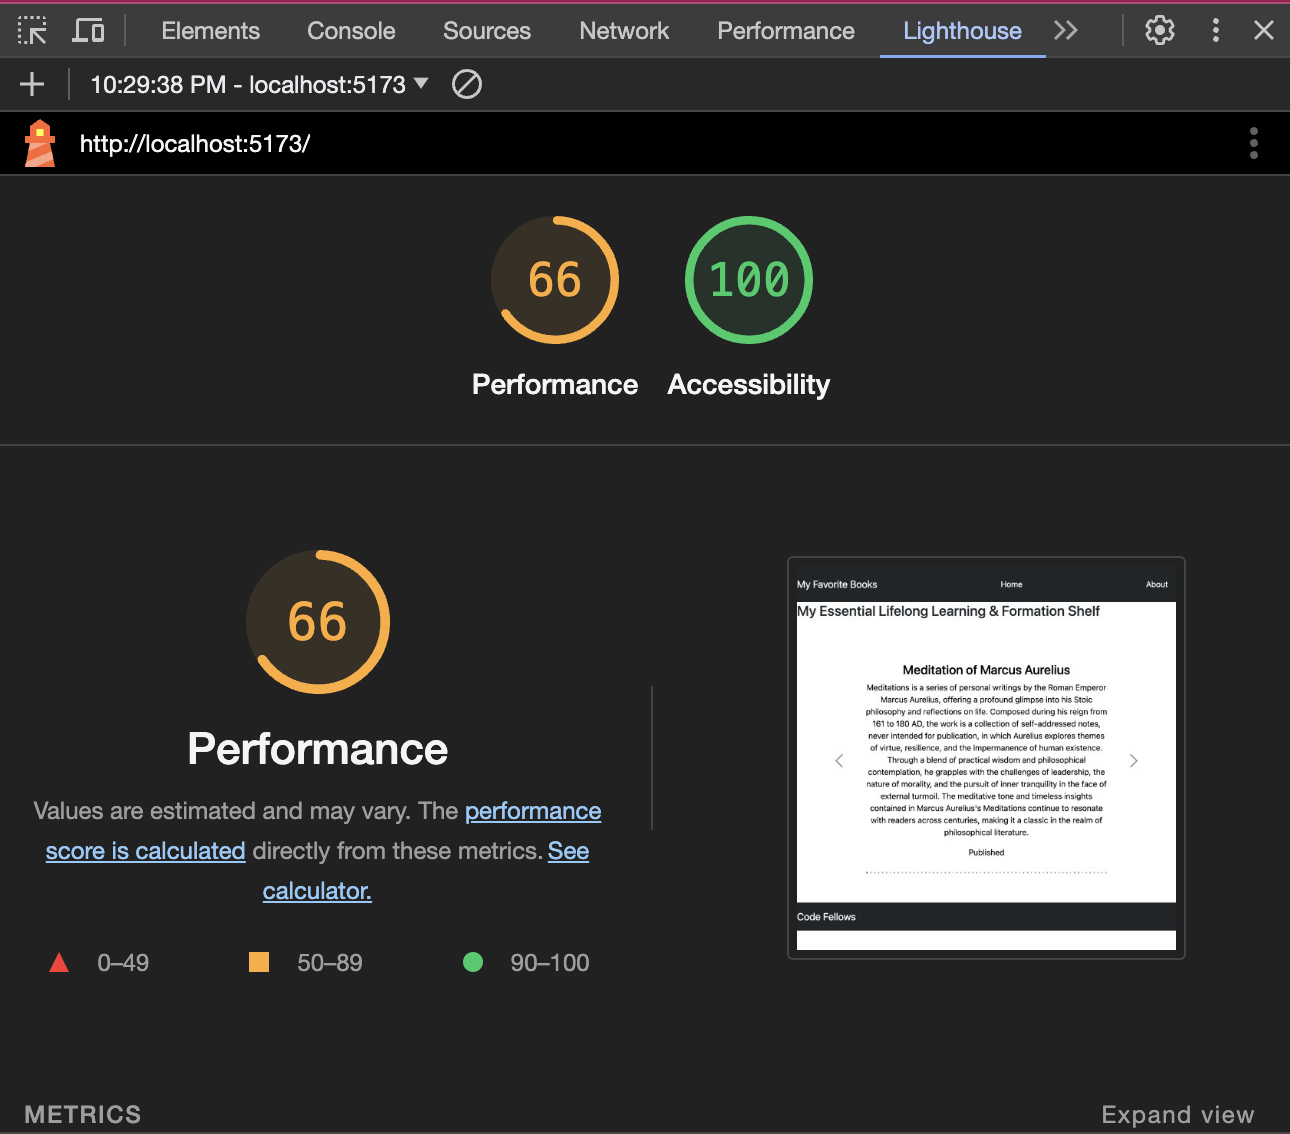
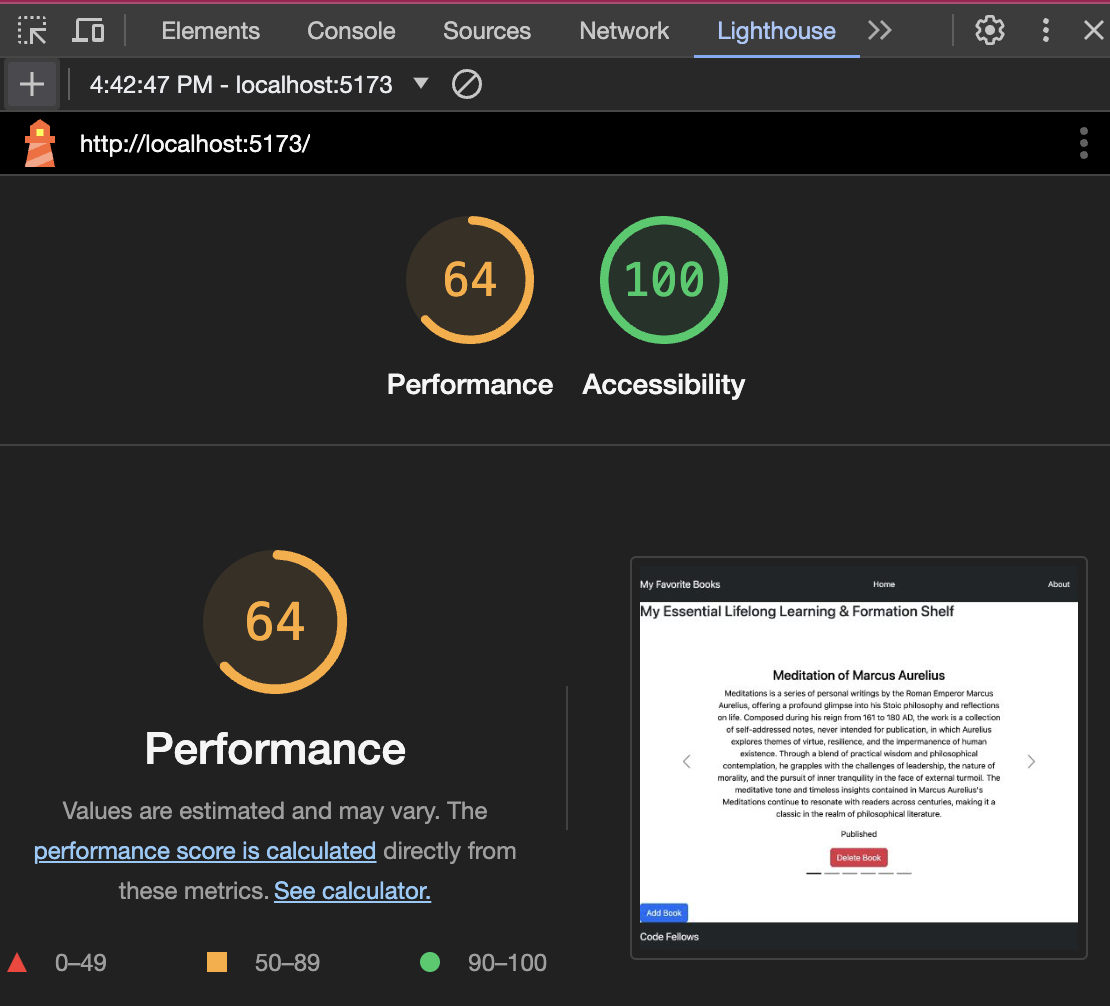
finishing delete button

diff --git a/src/BestBooks.jsx b/src/BestBooks.jsx
@@ -1,5 +1,6 @@
 import React from 'react';
 import Carousel from 'react-bootstrap/Carousel';
+import { Button }from 'react-bootstrap';
 import 'bootstrap/dist/css/bootstrap.min.css';
 import CreateBook from './CreateBook';
 
@@ -9,7 +10,8 @@ class BestBooks extends React.Component {
   constructor(props) {
     super(props);
     this.state = {
-      books: []
+      books: [],
+      isLoading: false,
     }
   }
 
@@ -23,10 +25,32 @@ async componentDidMount(){
             });
             console.log('Found these books:', bookData)
         }else {
-            console.error('No Books Found. Server response:', res.status )
+            console.error('No Books Found. Server response:', foundBooks.status )
         }
     } catch (error) {
         console.error(error.message);
+    }
+}
+async handleDeleteBook(bookId){
+    try {
+        this.setState({ isLoading: true })
+        console.log('Deleting books with this ID: ', bookId)
+        let deleteBook = await fetch(`${import.meta.env.VITE_SERVER_URL}/books/${bookId}`, {
+            method: 'DELETE',
+        });
+        if (deleteBook.ok) {
+            this.setState((prevState) => ({
+                books: prevState.books.filter((book) => book._id !== bookId),
+            }));
+            console.log('Book Delete Successfully');
+        }else {
+            let errorResponse = await deleteBook.json();
+            console.error('Failed to Delete Book:', deleteBook.status, errorResponse )
+        }
+    } catch (error) {
+        console.error('Error Deleting Book: ', error);
+    } finally {
+        this.setState({ isLoading: false })
     }
 }
 
@@ -57,6 +81,8 @@ handleBookCreated = (newBook) => {
                                     <h3>{book.title}</h3>
                                     <p>{book.description}</p>
                                     <p>{book.status}</p>
+                                    <Button variant='danger' onClick={() => this.handleDeleteBook(book._id)} >
+                                        Delete Book </Button>
                                 </Carousel.Caption>
                             </Carousel.Item>
                         ))}

diff --git a/README.md b/README.md
@@ -21,6 +21,7 @@ As stated previously, this app features MongoDB, React, Javascript, Bootstrap, a
 ## Change Log
 
 Started Dec 2, 2023
+Finished with add and delete buttons Dec 13, 2023
 
 ## Credit and Collaborations
 
@@ -65,3 +66,23 @@ Start time: 11:30pm
 Finish time: 12:45pm
 
 Actual time needed to complete: 1 hr 15 min
+
+## Name of feature: Adding Books
+
+Estimate of time needed to complete: 1hr
+
+Start time: 9am
+
+Finish time: 11:35am
+
+Actual time needed to complete: 2hrs 35min
+
+## Name of feature: Deleting Books
+
+Estimate of time needed to complete: 45 min
+
+Start time: 3:30pm
+
+Finish time: 4:50pm
+
+Actual time needed to complete: 15 min
